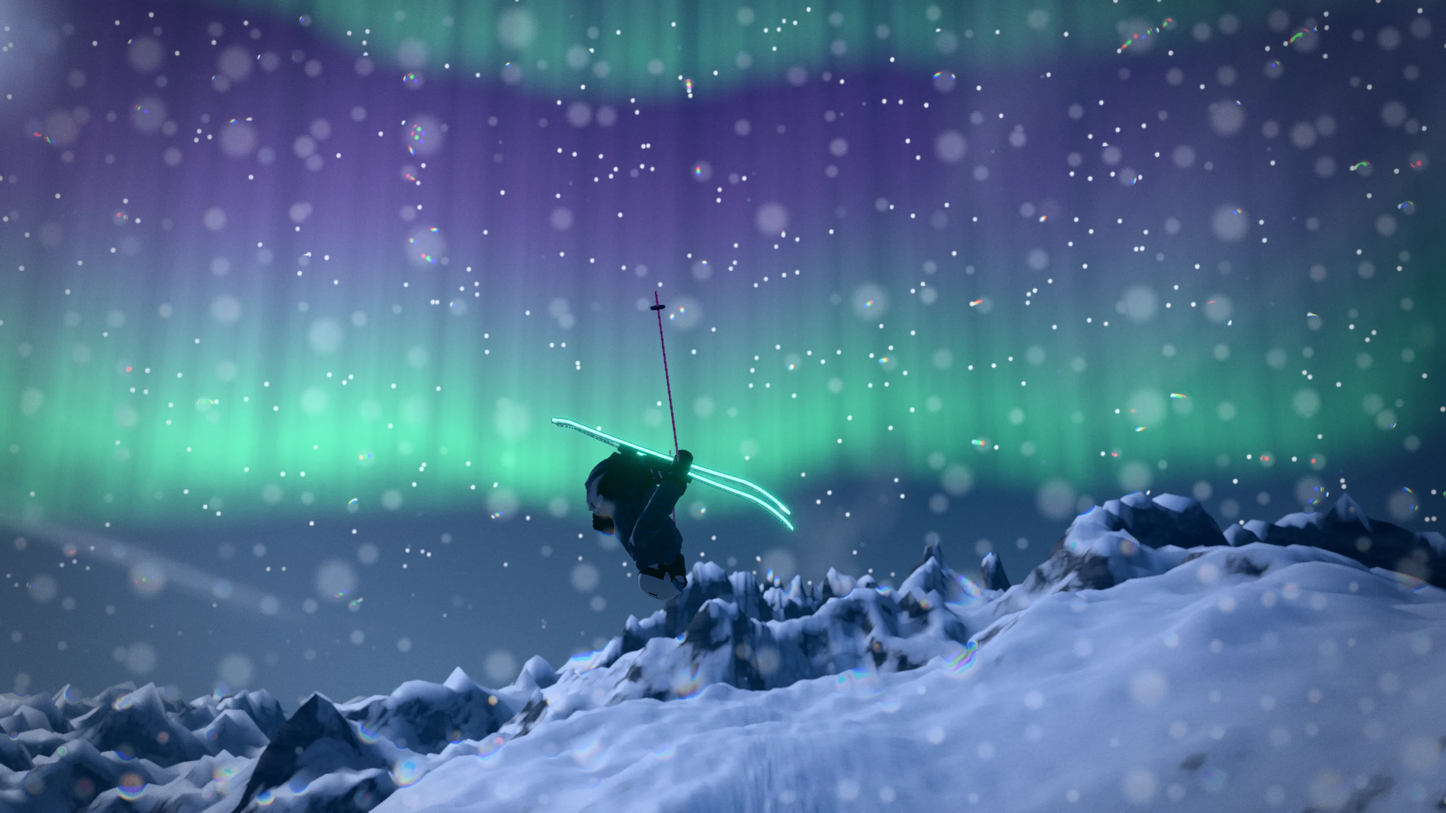
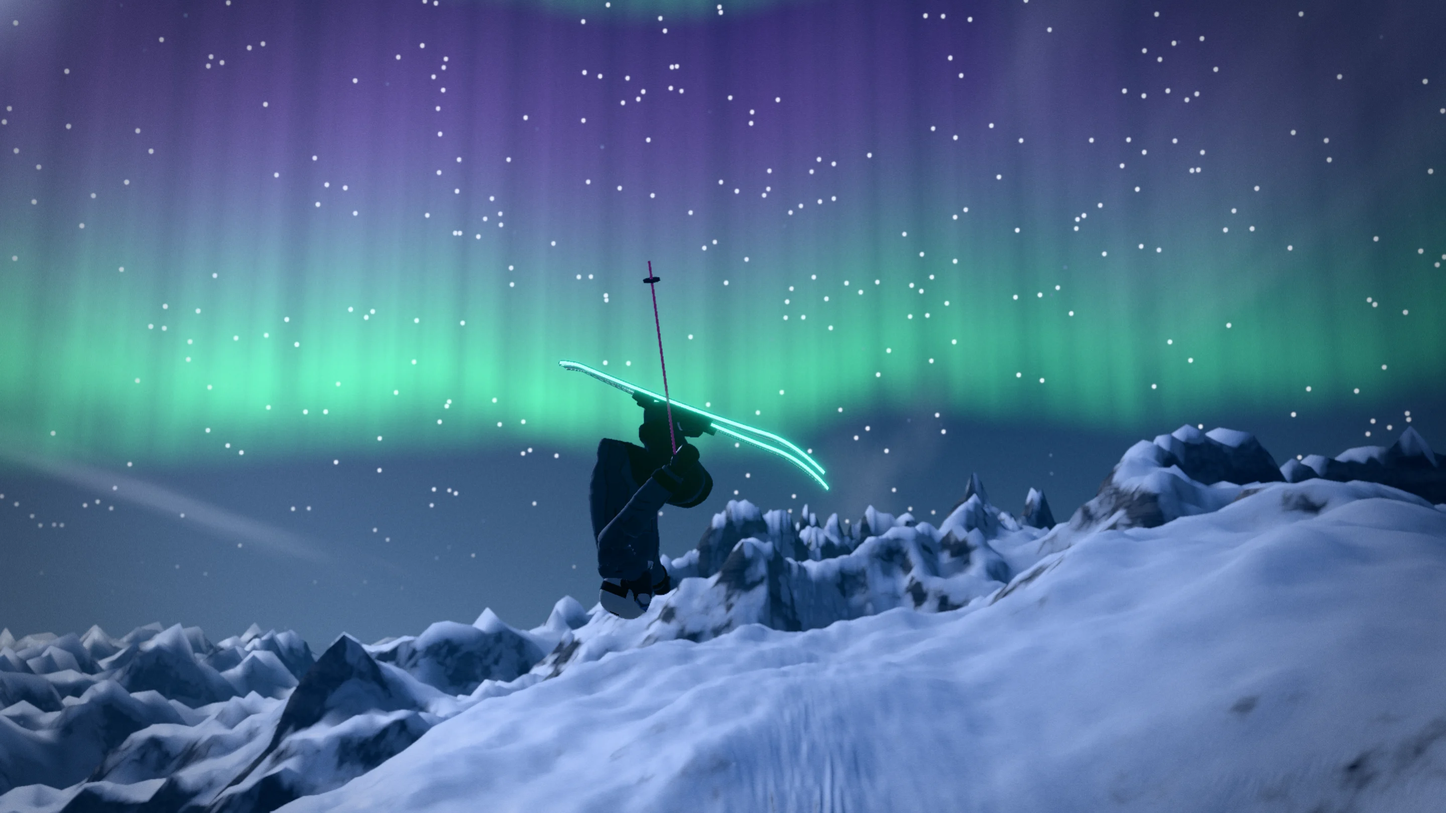
Loading stills re-rendered on the final rider (in-between body, re-cut jackets) without the lens-snow discs; CSS snow over the still toned down

diff --git a/web/index.html b/web/index.html
@@ -66,8 +66,8 @@
     .ld-still-pending #loading .ld-static { background: #0b0e16; }
     .ld-still-pending:not(.ld-has-still) #loading .ld-snow { opacity: 0; }
     @keyframes ld-kb { from { transform: scale(1.03) translate3d(0, 0, 0); } to { transform: scale(1.13) translate3d(var(--kbx, -1.5%), var(--kby, -0.8%), 0); } }
-    #loading .ld-flakes.c { background-image: radial-gradient(circle, rgba(255,255,255,.55) 0 3px, rgba(255,255,255,.18) 5px, transparent 7px);
-      background-size: 523px 611px; background-position: 120px 40px; filter: blur(2.2px); opacity: .5; animation-duration: 6.5s; }
+    #loading .ld-flakes.c { background-image: radial-gradient(circle, rgba(255,255,255,.45) 0 2.4px, rgba(255,255,255,.14) 4px, transparent 5.5px);
+      background-size: 523px 611px; background-position: 120px 40px; filter: blur(2.2px); opacity: .28; animation-duration: 6.5s; }
     #loading .ld-flakes { position: absolute; inset: -40% 0 0 0; will-change: transform; opacity: .7;
       background-image: radial-gradient(circle, rgba(255,255,255,.95) 0 1.4px, transparent 2.2px), radial-gradient(circle, rgba(255,255,255,.7) 0 1px, transparent 1.6px);
       background-size: 173px 211px, 97px 131px; background-position: 0 0, 41px 67px; animation: ld-fall 16s linear infinite; }
